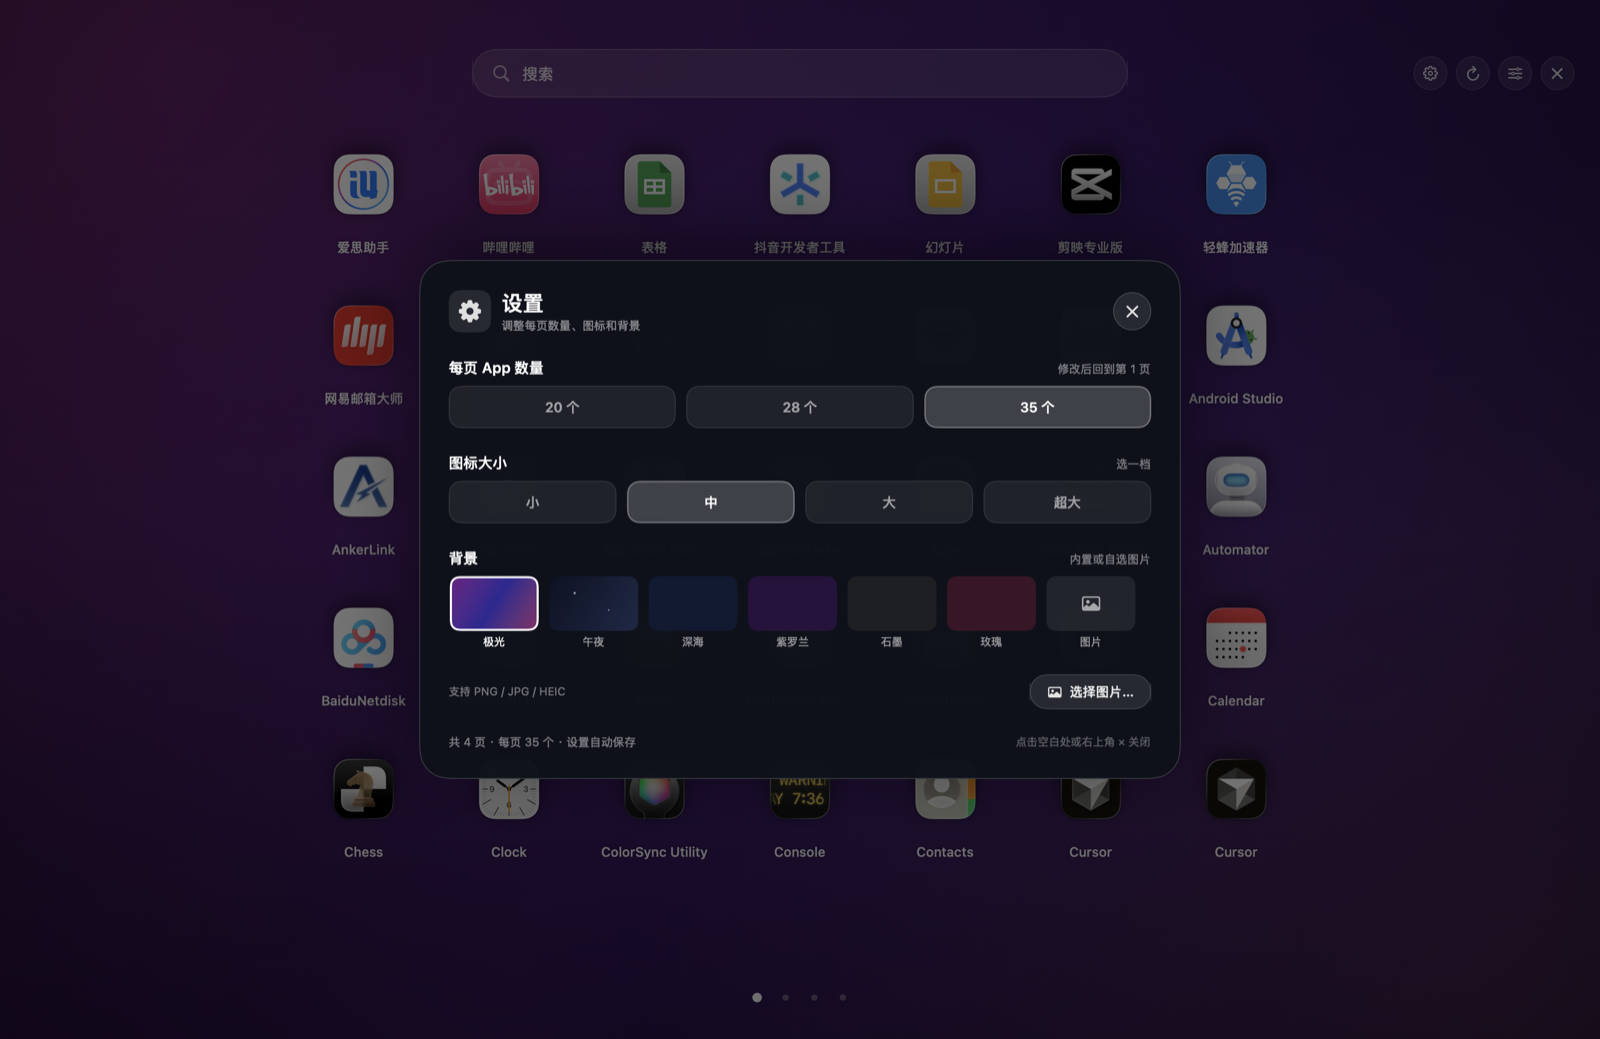
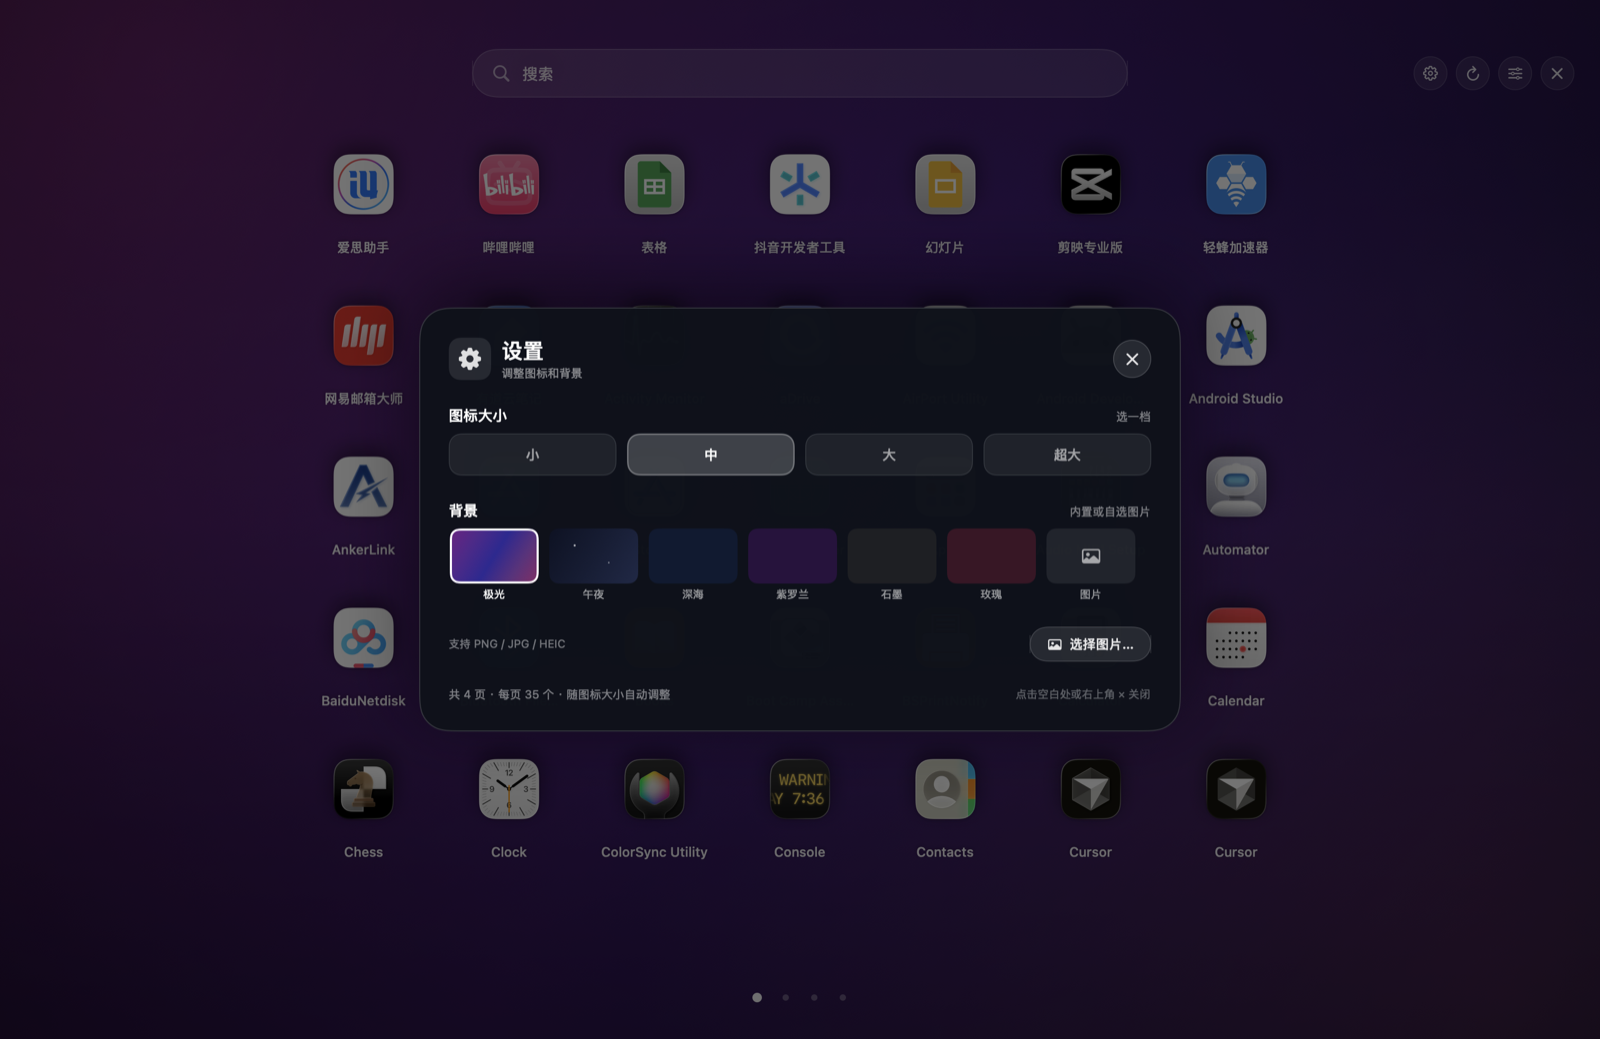
Use native paging and automatic page capacity

diff --git a/Sources/DashboardView.swift b/Sources/DashboardView.swift
@@ -173,7 +173,9 @@ struct DashboardView: View {
             HStack(spacing: 9) {
                 ForEach(0..<model.pageCount, id: \.self) { index in
                     Button {
-                        model.goToPage(index)
+                        withAnimation(.spring(response: 0.34, dampingFraction: 0.86)) {
+                            model.goToPage(index)
+                        }
                     } label: {
                         Circle()
                             .fill(Color.white.opacity(index == model.currentPage ? 0.95 : 0.28))
@@ -202,6 +204,8 @@ struct DashboardView: View {
                 previewPage
             } else {
                 GeometryReader { geometry in
+                    let capacity = autoPageCapacity(for: geometry.size)
+
                     ScrollView(.horizontal) {
                         LazyHStack(spacing: 0) {
                             ForEach(0..<model.pageCount, id: \.self) { page in
@@ -214,13 +218,27 @@ struct DashboardView: View {
                         .background(ScrollIndicatorHider())
                     }
                     .scrollIndicators(.never)
-                    .scrollTargetBehavior(.paging)
+                    .modifier(PageSnapBehavior())
                     .scrollPosition(id: pageBinding)
+                    .onAppear { model.updatePageCapacity(capacity) }
+                    .onChange(of: capacity) { _, newValue in
+                        model.updatePageCapacity(newValue)
+                    }
                 }
             }
         }
         .frame(maxWidth: .infinity, maxHeight: .infinity)
         .layoutPriority(1)
+    }
+
+    /// 根据页面可用高度和当前图标尺寸计算每页能放多少个。
+    private func autoPageCapacity(for size: CGSize) -> Int {
+        let metrics = model.iconMetrics
+        let availableHeight = max(0, size.height - 24 - 8)
+        let tileHeight = metrics.iconFrame + 36
+        let spacing = metrics.rowSpacing
+        let rows = max(1, Int(floor((availableHeight + spacing) / (tileHeight + spacing))))
+        return max(metrics.columns, metrics.columns * rows)
     }
 
     private func pageView(_ page: Int, height: CGFloat) -> some View {
@@ -408,7 +426,7 @@ struct DashboardView: View {
                 if let groupTarget {
                     model.drop(path: source, onto: groupTarget)
                 } else if let index {
-                    let globalIndex = model.currentPage * model.appsPerPage + index
+                    let globalIndex = model.currentPage * model.pageCapacity + index
                     withAnimation(.snappy(duration: 0.2)) {
                         model.moveApp(path: source, to: globalIndex)
                     }
@@ -610,6 +628,17 @@ struct DashboardView: View {
                     scrollView.hasVerticalScroller = false
                 }
                 current = candidate.superview
+            }
+        }
+    }
+
+    private struct PageSnapBehavior: ViewModifier {
+        func body(content: Content) -> some View {
+            if #available(macOS 15.0, *) {
+                // 系统分页吸附：一次手势最多一页，滑动手感跟手。
+                content.scrollTargetBehavior(.viewAligned(limitBehavior: .alwaysByOne))
+            } else {
+                content.scrollTargetBehavior(.paging)
             }
         }
     }

diff --git a/Sources/DashboardModel.swift b/Sources/DashboardModel.swift
@@ -33,13 +33,8 @@ final class DashboardModel: ObservableObject {
             Self.settingsDefaults.set(clamped, forKey: Self.iconSideKey)
         }
     }
-    @Published var appsPerPage: Int {
-        didSet {
-            Self.settingsDefaults.set(appsPerPage, forKey: Self.appsPerPageKey)
-            currentPage = 0
-            selectedTileID = nil
-        }
-    }
+    /// 每页容量由图标尺寸和页面可用高度自动计算，不再写入设置。
+    @Published private(set) var pageCapacity = 35
     @Published var backgroundStyle: BackgroundStyle {
         didSet {
             Self.settingsDefaults.set(backgroundStyle.rawValue, forKey: Self.backgroundStyleKey)
@@ -52,16 +47,22 @@ final class DashboardModel: ObservableObject {
         IconMetrics(side: CGFloat(iconSide))
     }
 
+    func updatePageCapacity(_ capacity: Int) {
+        let clamped = max(1, capacity)
+        guard clamped != pageCapacity else { return }
+        pageCapacity = clamped
+        currentPage = min(currentPage, max(0, pageCount - 1))
+        selectedTileID = nil
+    }
+
     private static func snapIconSide(_ value: Double) -> Double {
         IconSizeChoice.allCases
             .min(by: { abs($0.side - value) < abs($1.side - value) })?
             .side ?? 70
     }
 
-    static let pageSizeOptions = [20, 28, 35]
     private static let iconSideKey = "dashboard.iconSide"
     private static let legacyIconSizeKey = "dashboard.iconSize"
-    private static let appsPerPageKey = "dashboard.appsPerPage"
     private static let backgroundStyleKey = "dashboard.backgroundStyle"
     private static let customBackgroundPathKey = "dashboard.customBackgroundPath"
 
@@ -90,9 +91,6 @@ final class DashboardModel: ObservableObject {
             loadedSide = 70
         }
         iconSide = Self.snapIconSide(loadedSide)
-        let savedPageSize = defaults.integer(forKey: Self.appsPerPageKey)
-        appsPerPage = Self.pageSizeOptions.contains(savedPageSize) ? savedPageSize : 35
-
         var savedStyle = defaults.string(forKey: Self.backgroundStyleKey)
             .flatMap(BackgroundStyle.init(rawValue:)) ?? .aurora
         if let path = defaults.string(forKey: Self.customBackgroundPathKey),
@@ -510,14 +508,14 @@ final class DashboardModel: ObservableObject {
     var pageCount: Int {
         let count = visibleTiles.count
         guard count > 0 else { return 1 }
-        return (count + appsPerPage - 1) / appsPerPage
+        return (count + pageCapacity - 1) / pageCapacity
     }
 
     func tiles(on page: Int) -> [Tile] {
         let all = visibleTiles
-        let start = page * appsPerPage
+        let start = page * pageCapacity
         guard start >= 0, start < all.count else { return [] }
-        let end = min(start + appsPerPage, all.count)
+        let end = min(start + pageCapacity, all.count)
         return Array(all[start..<end])
     }
 
@@ -562,7 +560,7 @@ final class DashboardModel: ObservableObject {
             ? (index + 1) % ids.count
             : (index - 1 + ids.count) % ids.count
         selectedTileID = ids[next]
-        currentPage = next / appsPerPage
+        currentPage = next / pageCapacity
     }
 
     /// Enter：打开当前选中的 App，或进入当前选中的文件夹。

diff --git a/Sources/SettingsOverlay.swift b/Sources/SettingsOverlay.swift
@@ -28,7 +28,7 @@ struct SettingsOverlay: View {
                         Text("设置")
                             .font(.system(size: 21, weight: .semibold, design: .rounded))
                             .foregroundStyle(.white)
-                        Text("调整每页数量、图标和背景")
+                        Text("调整图标和背景")
                             .font(.system(size: 11))
                             .foregroundStyle(.white.opacity(0.5))
                     }
@@ -36,17 +36,6 @@ struct SettingsOverlay: View {
                     Spacer()
 
                     settingsCloseButton
-                }
-
-                settingRow(
-                    title: "每页 App 数量",
-                    subtitle: "修改后回到第 1 页"
-                ) {
-                    HStack(spacing: 10) {
-                        ForEach(DashboardModel.pageSizeOptions, id: \.self) { count in
-                            pageSizeOption(count)
-                        }
-                    }
                 }
 
                 settingRow(
@@ -103,7 +92,7 @@ struct SettingsOverlay: View {
                 }
 
                 HStack(alignment: .center, spacing: 10) {
-                    Text("共 \(model.pageCount) 页 · 每页 \(model.appsPerPage) 个 · 设置自动保存")
+                    Text("共 \(model.pageCount) 页 · 每页 \(model.pageCapacity) 个 · 随图标大小自动调整")
                         .font(.system(size: 11))
                         .foregroundStyle(.white.opacity(0.45))
 
@@ -156,32 +145,6 @@ struct SettingsOverlay: View {
         }
         .buttonStyle(.plain)
         .help("\(Int(choice.side))pt")
-    }
-
-    private func pageSizeOption(_ count: Int) -> some View {
-        let selected = model.appsPerPage == count
-        return Button {
-            model.appsPerPage = count
-        } label: {
-            Text("\(count) 个")
-                .font(.system(size: 13, weight: .semibold))
-                .foregroundStyle(.white.opacity(selected ? 0.98 : 0.58))
-                .frame(maxWidth: .infinity)
-                .frame(height: 40)
-                .background {
-                    RoundedRectangle(cornerRadius: 12, style: .continuous)
-                        .fill(Color.white.opacity(selected ? 0.20 : 0.07))
-                }
-                .overlay {
-                    RoundedRectangle(cornerRadius: 12, style: .continuous)
-                        .strokeBorder(
-                            Color.white.opacity(selected ? 0.26 : 0.10),
-                            lineWidth: selected ? 1.4 : 0.8
-                        )
-                }
-                .contentShape(RoundedRectangle(cornerRadius: 12, style: .continuous))
-        }
-        .buttonStyle(.plain)
     }
 
     private var settingsCloseButton: some View {

diff --git a/Sources/AppMain.swift b/Sources/AppMain.swift
@@ -339,11 +339,6 @@ enum DashboardMain {
                     controller.model.iconSide = side
                 }
             }
-            if let raw = ProcessInfo.processInfo.environment["DASHBOARD_SNAPSHOT_PAGE_SIZE"],
-               let count = Int(raw),
-               DashboardModel.pageSizeOptions.contains(count) {
-                controller.model.appsPerPage = count
-            }
             if let raw = ProcessInfo.processInfo.environment["DASHBOARD_SNAPSHOT_PAGE"],
                let page = Int(raw) {
                 controller.model.goToPage(page)
@@ -412,12 +407,13 @@ enum DashboardMain {
             check(model.selectedTileID == tileIDs[0], "Tab 从最后一个回绕到第一个")
 
             model.currentPage = 0
-            model.selectedTileID = tileIDs[model.appsPerPage - 1]
+            let capacity = model.pageCapacity
+            model.selectedTileID = tileIDs[capacity - 1]
             model.selectNext(forward: true)
-            check(model.selectedTileID == tileIDs[model.appsPerPage], "Tab 跨页选中下一页第一个")
+            check(model.selectedTileID == tileIDs[capacity], "Tab 跨页选中下一页第一个")
             check(model.currentPage == 1, "Tab 跨页时自动翻页")
             check(
-                model.pageCount == (tileIDs.count + model.appsPerPage - 1) / model.appsPerPage,
+                model.pageCount == (tileIDs.count + capacity - 1) / capacity,
                 "页数计算正确"
             )
             model.goToPage(999)
@@ -513,12 +509,14 @@ enum DashboardMain {
 
         // 设置持久化：写入后新建 model 应能读回。
         model.iconSide = 90
-        model.appsPerPage = 28
         let reloadedSettings = DashboardModel()
         check(reloadedSettings.iconSide == 90, "图标大小设置持久化")
-        check(reloadedSettings.appsPerPage == 28, "每页数量设置持久化")
+
+        let totalTiles = model.layout.tiles.count
+        model.updatePageCapacity(20)
+        check(model.pageCount == (totalTiles + 19) / 20, "每页容量自动分页")
+        model.updatePageCapacity(35)
         reloadedSettings.iconSide = 70
-        reloadedSettings.appsPerPage = 35
 
         model.backgroundStyle = .midnight
         let reloadedBackground = DashboardModel()

diff --git a/Sources/DashboardController.swift b/Sources/DashboardController.swift
@@ -67,11 +67,15 @@ final class DashboardController {
 
             if !self.isEditingText {
                 if event.keyCode == 123 { // ←
-                    self.model.previousPage()
+                    withAnimation(.spring(response: 0.34, dampingFraction: 0.86)) {
+                        self.model.previousPage()
+                    }
                     return nil
                 }
                 if event.keyCode == 124 { // →
-                    self.model.nextPage()
+                    withAnimation(.spring(response: 0.34, dampingFraction: 0.86)) {
+                        self.model.nextPage()
+                    }
                     return nil
                 }
             }
@@ -209,6 +213,13 @@ final class DashboardController {
         let now = Date()
         let phase = event.phase
         let precise = event.hasPreciseScrollingDeltas
+        let dx = event.scrollingDeltaX
+        let dy = event.scrollingDeltaY
+
+        // 触控板横向滑动交回系统分页 ScrollView，跟手、带惯性吸附。
+        if precise, abs(dx) >= abs(dy) {
+            return event
+        }
 
         if phase == .began || phase == .mayBegin {
             scrollAccumulator = 0
@@ -237,8 +248,6 @@ final class DashboardController {
 
         guard now >= scrollCooldownUntil else { return nil }
 
-        let dx = event.scrollingDeltaX
-        let dy = event.scrollingDeltaY
         let horizontal = abs(dx) >= abs(dy)
         let delta = horizontal ? dx : dy
         guard abs(delta) > 0.001 else { return nil }
@@ -261,7 +270,7 @@ final class DashboardController {
         guard !scrollDidPage, scrollAccumulator >= threshold else { return nil }
 
         if model.pageCount > 1 {
-            withAnimation(.snappy(duration: 0.22)) {
+            withAnimation(.spring(response: 0.34, dampingFraction: 0.86)) {
                 if scrollForward {
                     model.nextPage()
                 } else {

diff --git a/PLAN.md b/PLAN.md
@@ -14,6 +14,7 @@
 > v1.4：参考旧版 Launchpad 精简界面——去掉标题栏，只保留顶部居中大搜索框（620×46）、彩色渐变背景、底部圆点；见 `docs/screenshot.png`。
 > v1.5：背景设置——极光 / 午夜星空 / 深海 / 紫罗兰 / 石墨 / 玫瑰，自选本地图片；搜索框避开刘海/菜单栏。
 > v1.6：图标大小改为小 / 中 / 大 / 超大四档大按钮（64 / 70 / 90 / 100pt）。
+> v1.7：每页容量改为按图标尺寸 / 页面高度自动计算；触控板横向交回系统 paged scroll，滚轮一次一页弹簧动画。
 
 ---
 
@@ -32,7 +33,7 @@
 | 分组重命名 / 解散 / 移出成员 | ✅ | 本地数据模型 + 右键菜单 / 文件夹弹层 |
 | 搜索 App | ✅ | 顶部搜索框（铺满剩余宽度），按名称 / bundle id 过滤，名称命中优先 |
 | 分页 | ✅ | 底部圆点、←/→；滚轮/双指一次动作只翻一页 |
-| 设置 | ✅ | 齿轮面板：每页 20/28/35 个，图标小/中/大/超大四档按钮，`UserDefaults` 持久化 |
+| 设置 | ✅ | 齿轮面板：图标小/中/大/超大四档按钮，每页容量按尺寸自动计算；`UserDefaults` 持久化 |
 | 背景 | ✅ | 极光 / 午夜星空 / 4 种纯色 / 自选图片；图片复制到 Application Support，设置持久化 |
 | Tab 循环选择 | ✅ | 本地 keyDown 监听 + `selectedTileID`，末尾回绕，Shift+Tab 反向，跨页自动翻页 |
 | 布局持久化 | ✅ | `~/Library/Application Support/DashboardReborn/layout.json` |
@@ -77,7 +78,7 @@ Dashboard.app
 ├── GlobalHotKey.swift       Carbon 全局热键
 ├── DashboardModel.swift     状态、扫描合并、分组/删除/重命名、持久化
 ├── AppScanner.swift         枚举 /Applications 等目录
-├── SettingsOverlay.swift    每页数量 / 图标大小设置面板
+├── SettingsOverlay.swift    图标大小 / 背景设置面板
 ├── LayoutStore.swift        layout.json 读写
 ├── Models.swift             AppInfo / Folder / Tile / DashboardLayout
 ├── IconProvider.swift       图标缓存
@@ -120,7 +121,7 @@ Layout    { tiles: [Tile], hidden: Set<String> }
 | 点击设置遮罩 | 关闭设置 |
 | 点击底部圆点 | 跳到指定页 |
 | 顶部搜索框 | 居中大搜索框；实时过滤；回车打开第一个，Esc 清除 |
-| 右上角齿轮 | 设置每页数量、图标大小与背景 |
+| 右上角齿轮 | 设置图标大小与背景 |
 | 点文件夹 | 打开文件夹弹层；点名称可直接改名 |
 | 编辑模式点 ×（App） | 从面板移除，不卸载；Toast 明确提示 |
 | 编辑模式点 ×（文件夹） | 解散文件夹，成员回到网格 |
@@ -133,7 +134,7 @@ Layout    { tiles: [Tile], hidden: Set<String> }
 视觉：
 - 默认极光渐变；可切换午夜星空、纯色或自选图片
 - 图标大小小/中/大/超大四档；小图标 9 列，其余 7 列；不足一页内容靠上排列
-- 每页固定数量，横向分页 + 底部圆点；滚动条强制隐藏
+- 每页容量按图标尺寸与可用高度自动计算；横向分页 + 底部圆点；滚动条强制隐藏
 - 顶部只保留居中大搜索框（620×46），无标题栏，并避开刘海 / 菜单栏
 - 背景可切换极光渐变、午夜星空、纯色或自选图片
 - 搜索框 / 文件夹 / 设置 / Toast 使用玻璃或半透明材质；macOS < 26 回退毛玻璃
@@ -169,10 +170,10 @@ Layout    { tiles: [Tile], hidden: Set<String> }
 - [x] `Tab` 依次选择，最后一个之后回到第一个；`Shift+Tab` 反向（合成按键测试通过）
 - [x] 选中项有明显蓝色高亮，Enter 可打开（运行时截图验证）
 - [x] 顶部搜索能实时过滤，回车打开第一个结果（运行时截图验证）
-- [x] 列表按固定数量分页，`←` / `→`、圆点、触控板可左右翻页（分页截图 + 按键测试）
+- [x] 每页容量按图标尺寸自动计算，`←` / `→`、圆点、触控板可左右翻页（分页截图 + 按键测试）
 - [x] 鼠标滚轮 / 触控板一次滚动只翻一页，不会连续翻多页（合成滚轮测试通过）
 - [x] 点击空白背景可以收起 Dashboard，点击设置遮罩可以关闭设置（合成点击测试通过）
-- [x] 设置面板可改每页 20/28/35 个，图标小/中/大/超大，重启后保持（设置持久化自测通过）
+- [x] 设置面板可改图标小/中/大/超大，重启后保持；每页容量自动重算（设置持久化自测通过）
 - [x] 背景可切换内置样式或自选图片并持久化（背景自测通过；选图面板需实机点一次）
 - [x] 点 × 后从面板消失，重启后仍不出现（`hidden` 持久化自测通过）
 - [x] “恢复被移除的 App”能把隐藏项加回（自测通过）
@@ -203,7 +204,7 @@ Layout    { tiles: [Tile], hidden: Set<String> }
 - `glassEffect` 在 SwiftUICore 中可用（macOS 26.0+）
 - 扫描：标准目录原始枚举 139 份，按 bundle id 去重后 **132 个 App**
 - 构建：`swift build -c release` 通过；`dist/Dashboard.app` ad-hoc 签名，`codesign --verify --deep --strict` 通过
-- 逻辑自测：`--self-test` **27 项全部 PASS**（扫描、Tab / 跨页、排序、建组、重命名、移出、隐藏、恢复、解散、落盘、设置 / 背景持久化）
+- 逻辑自测：`--self-test` **27 项全部 PASS**（扫描、Tab / 跨页、排序、自动容量、建组、重命名、移出、隐藏、恢复、解散、落盘、设置 / 背景持久化）
 - 键盘测试：`--key-test` 合成真实 Tab / Shift+Tab / ← / → 事件，5 项 PASS
 - 滚动测试：`--scroll-test` 合成鼠标滚轮，3 项 PASS（翻一页、冷却内不连翻、再次滚动再翻一页）
 - 点击测试：`--dismiss-test` 合成点击，2 项 PASS（空白背景收起、设置遮罩关闭）
@@ -211,8 +212,8 @@ Layout    { tiles: [Tile], hidden: Set<String> }
 - 运行时截图：`--snapshot` 真实面板 3024×1964，见 `docs/screenshot.png`
 - 搜索：运行时输入 “Google” 得到 11 个匹配，名称命中排在 bundle id 命中之前，见 `docs/search.png`
 - 选中：`--snapshot` 设置第 5 个图标为选中，蓝色描边/光晕正常，见 `docs/selection.png`
-- 分页：默认 35 个/页，共 4 页；底部只显示圆点，`docs/screenshot.png`
-- 设置：每页 20/28/35、图标小/中/大/超大四档按钮、背景预设与选图入口，深色玻璃面板，见 `docs/settings.png`
+- 分页：中图标自动 35 个/页、共 4 页；小图标自动 45 个/页；底部只显示圆点，`docs/screenshot.png`
+- 设置：图标小/中/大/超大四档按钮、自动每页容量、背景预设与选图入口，深色玻璃面板，见 `docs/settings.png`
 - 背景：极光默认、午夜星空还原、纯色/自选图片；自选图片复制到 `Application Support/DashboardReborn/Backgrounds/`
 - LaunchServices：`open dist/Dashboard.app` 成功启动，并写入
   `~/Library/Application Support/DashboardReborn/layout.json`（7647 bytes）
